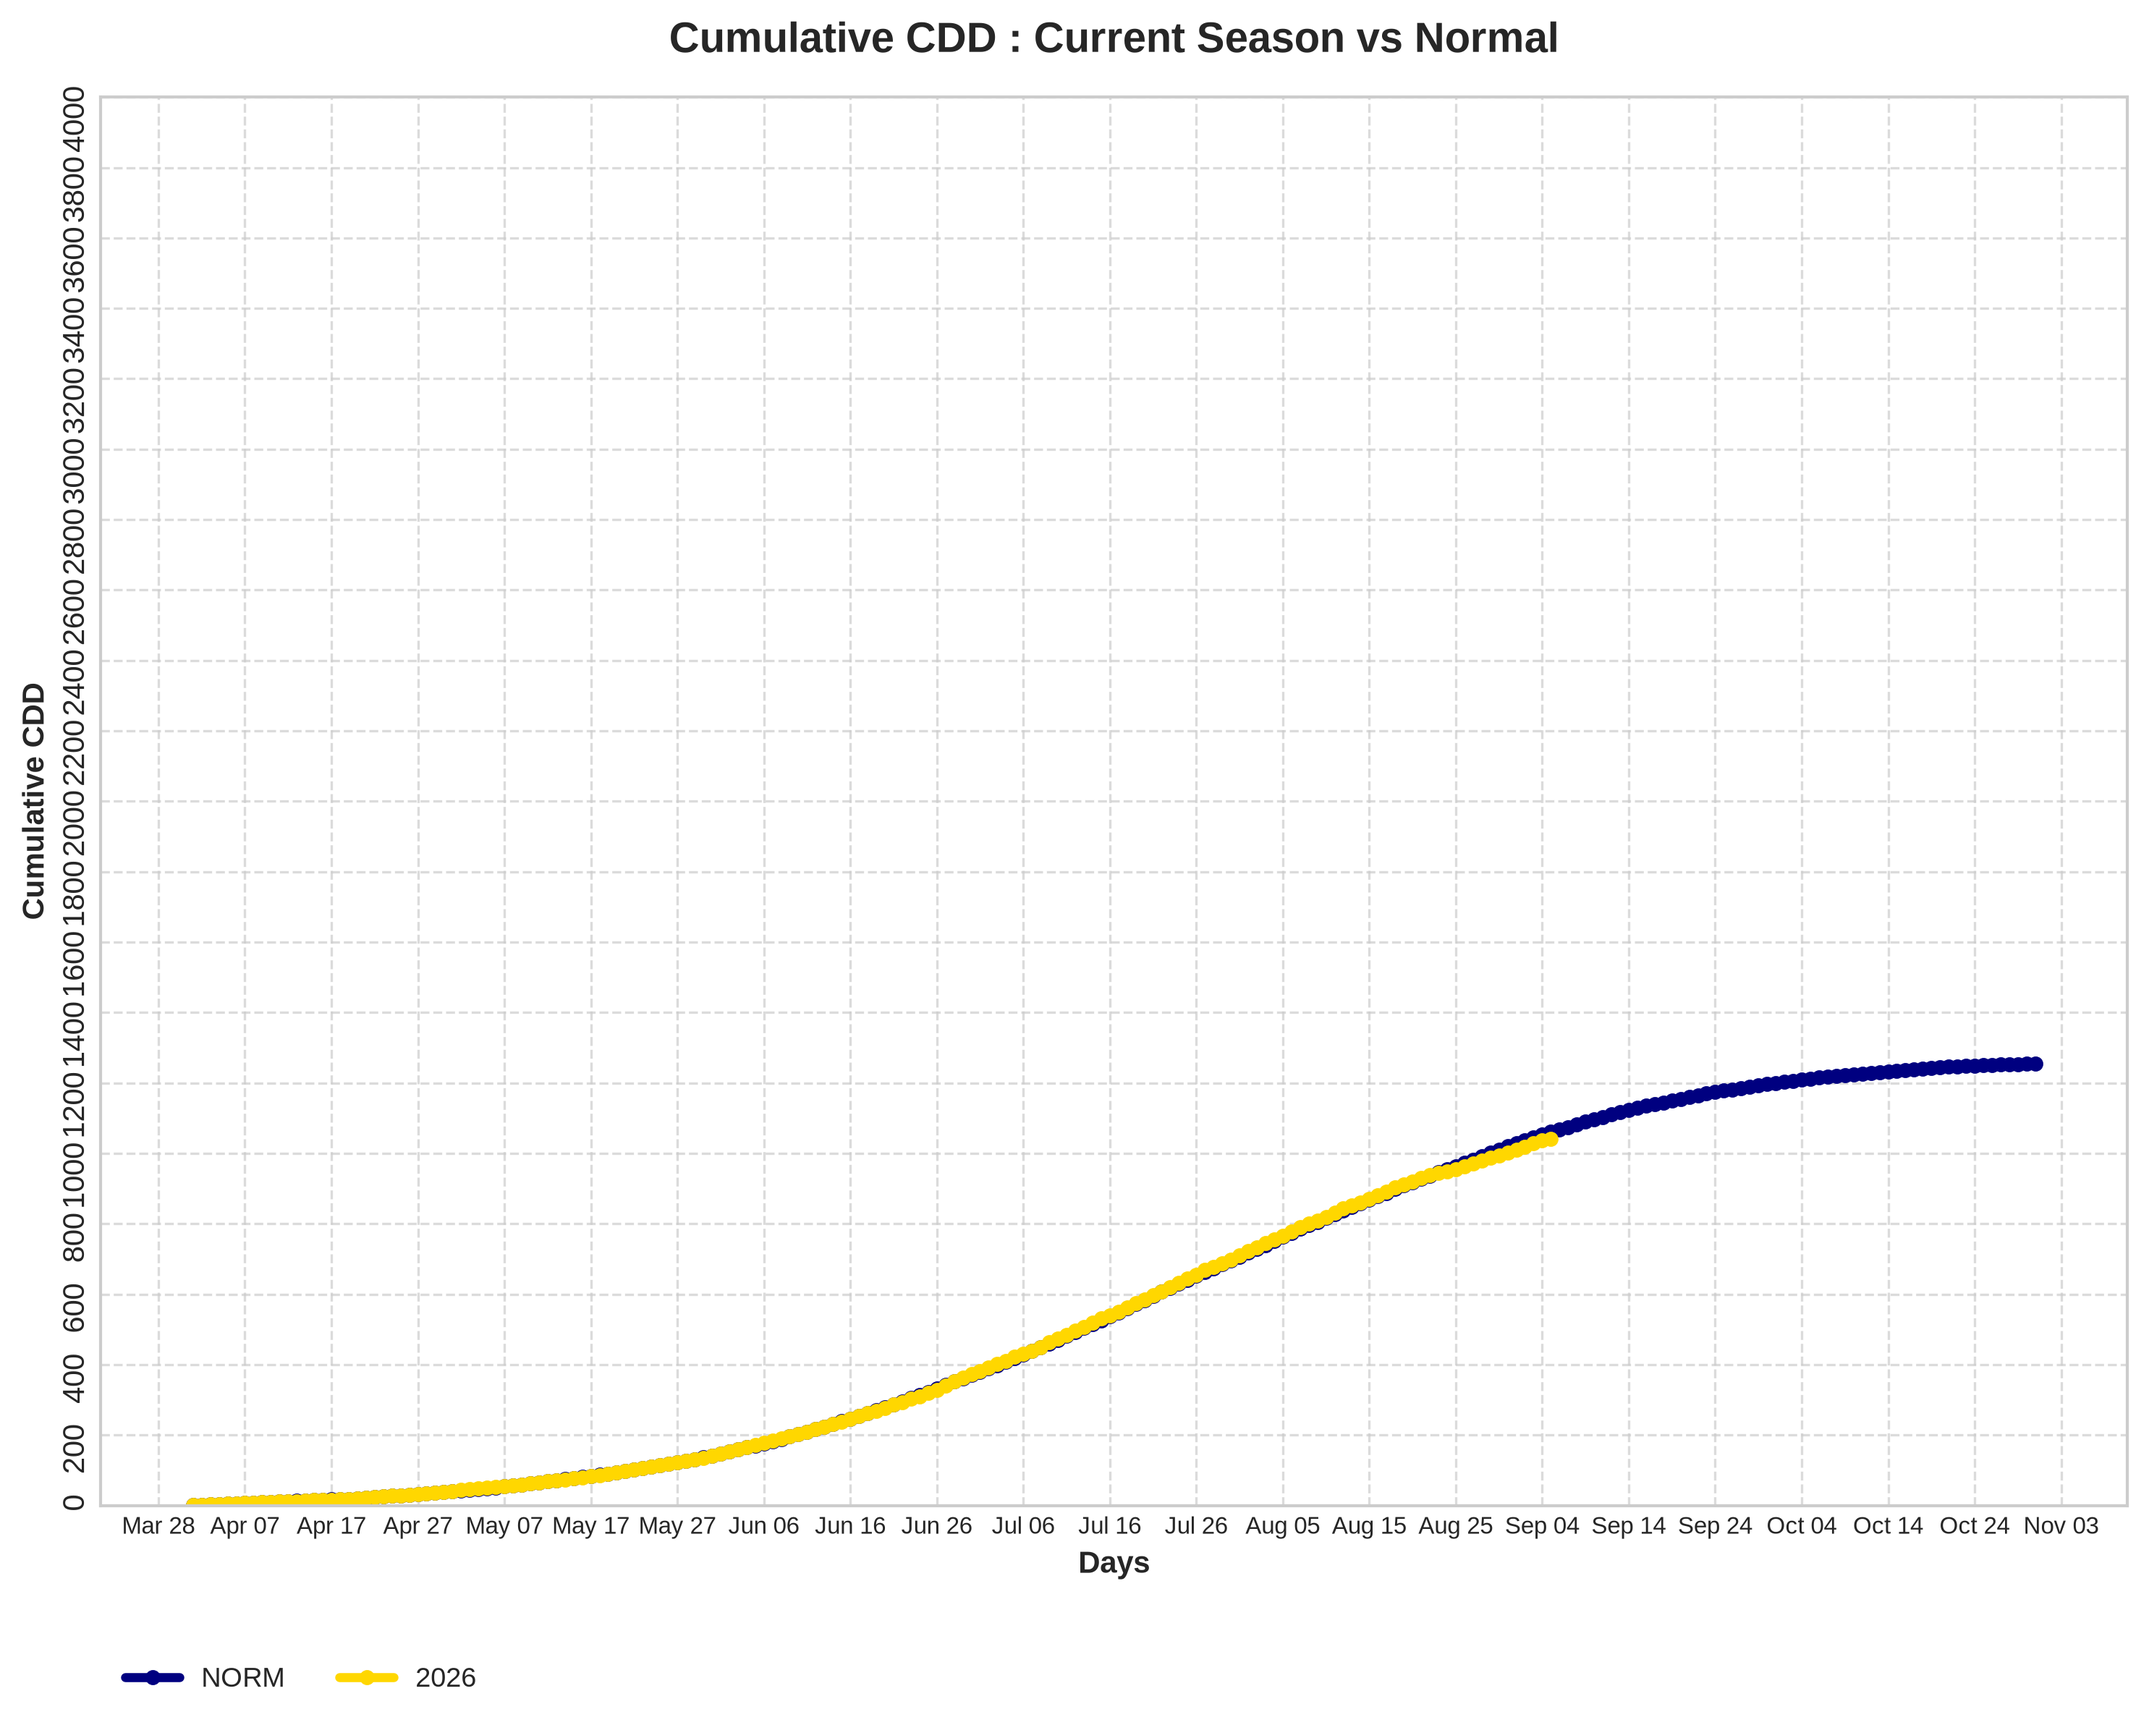
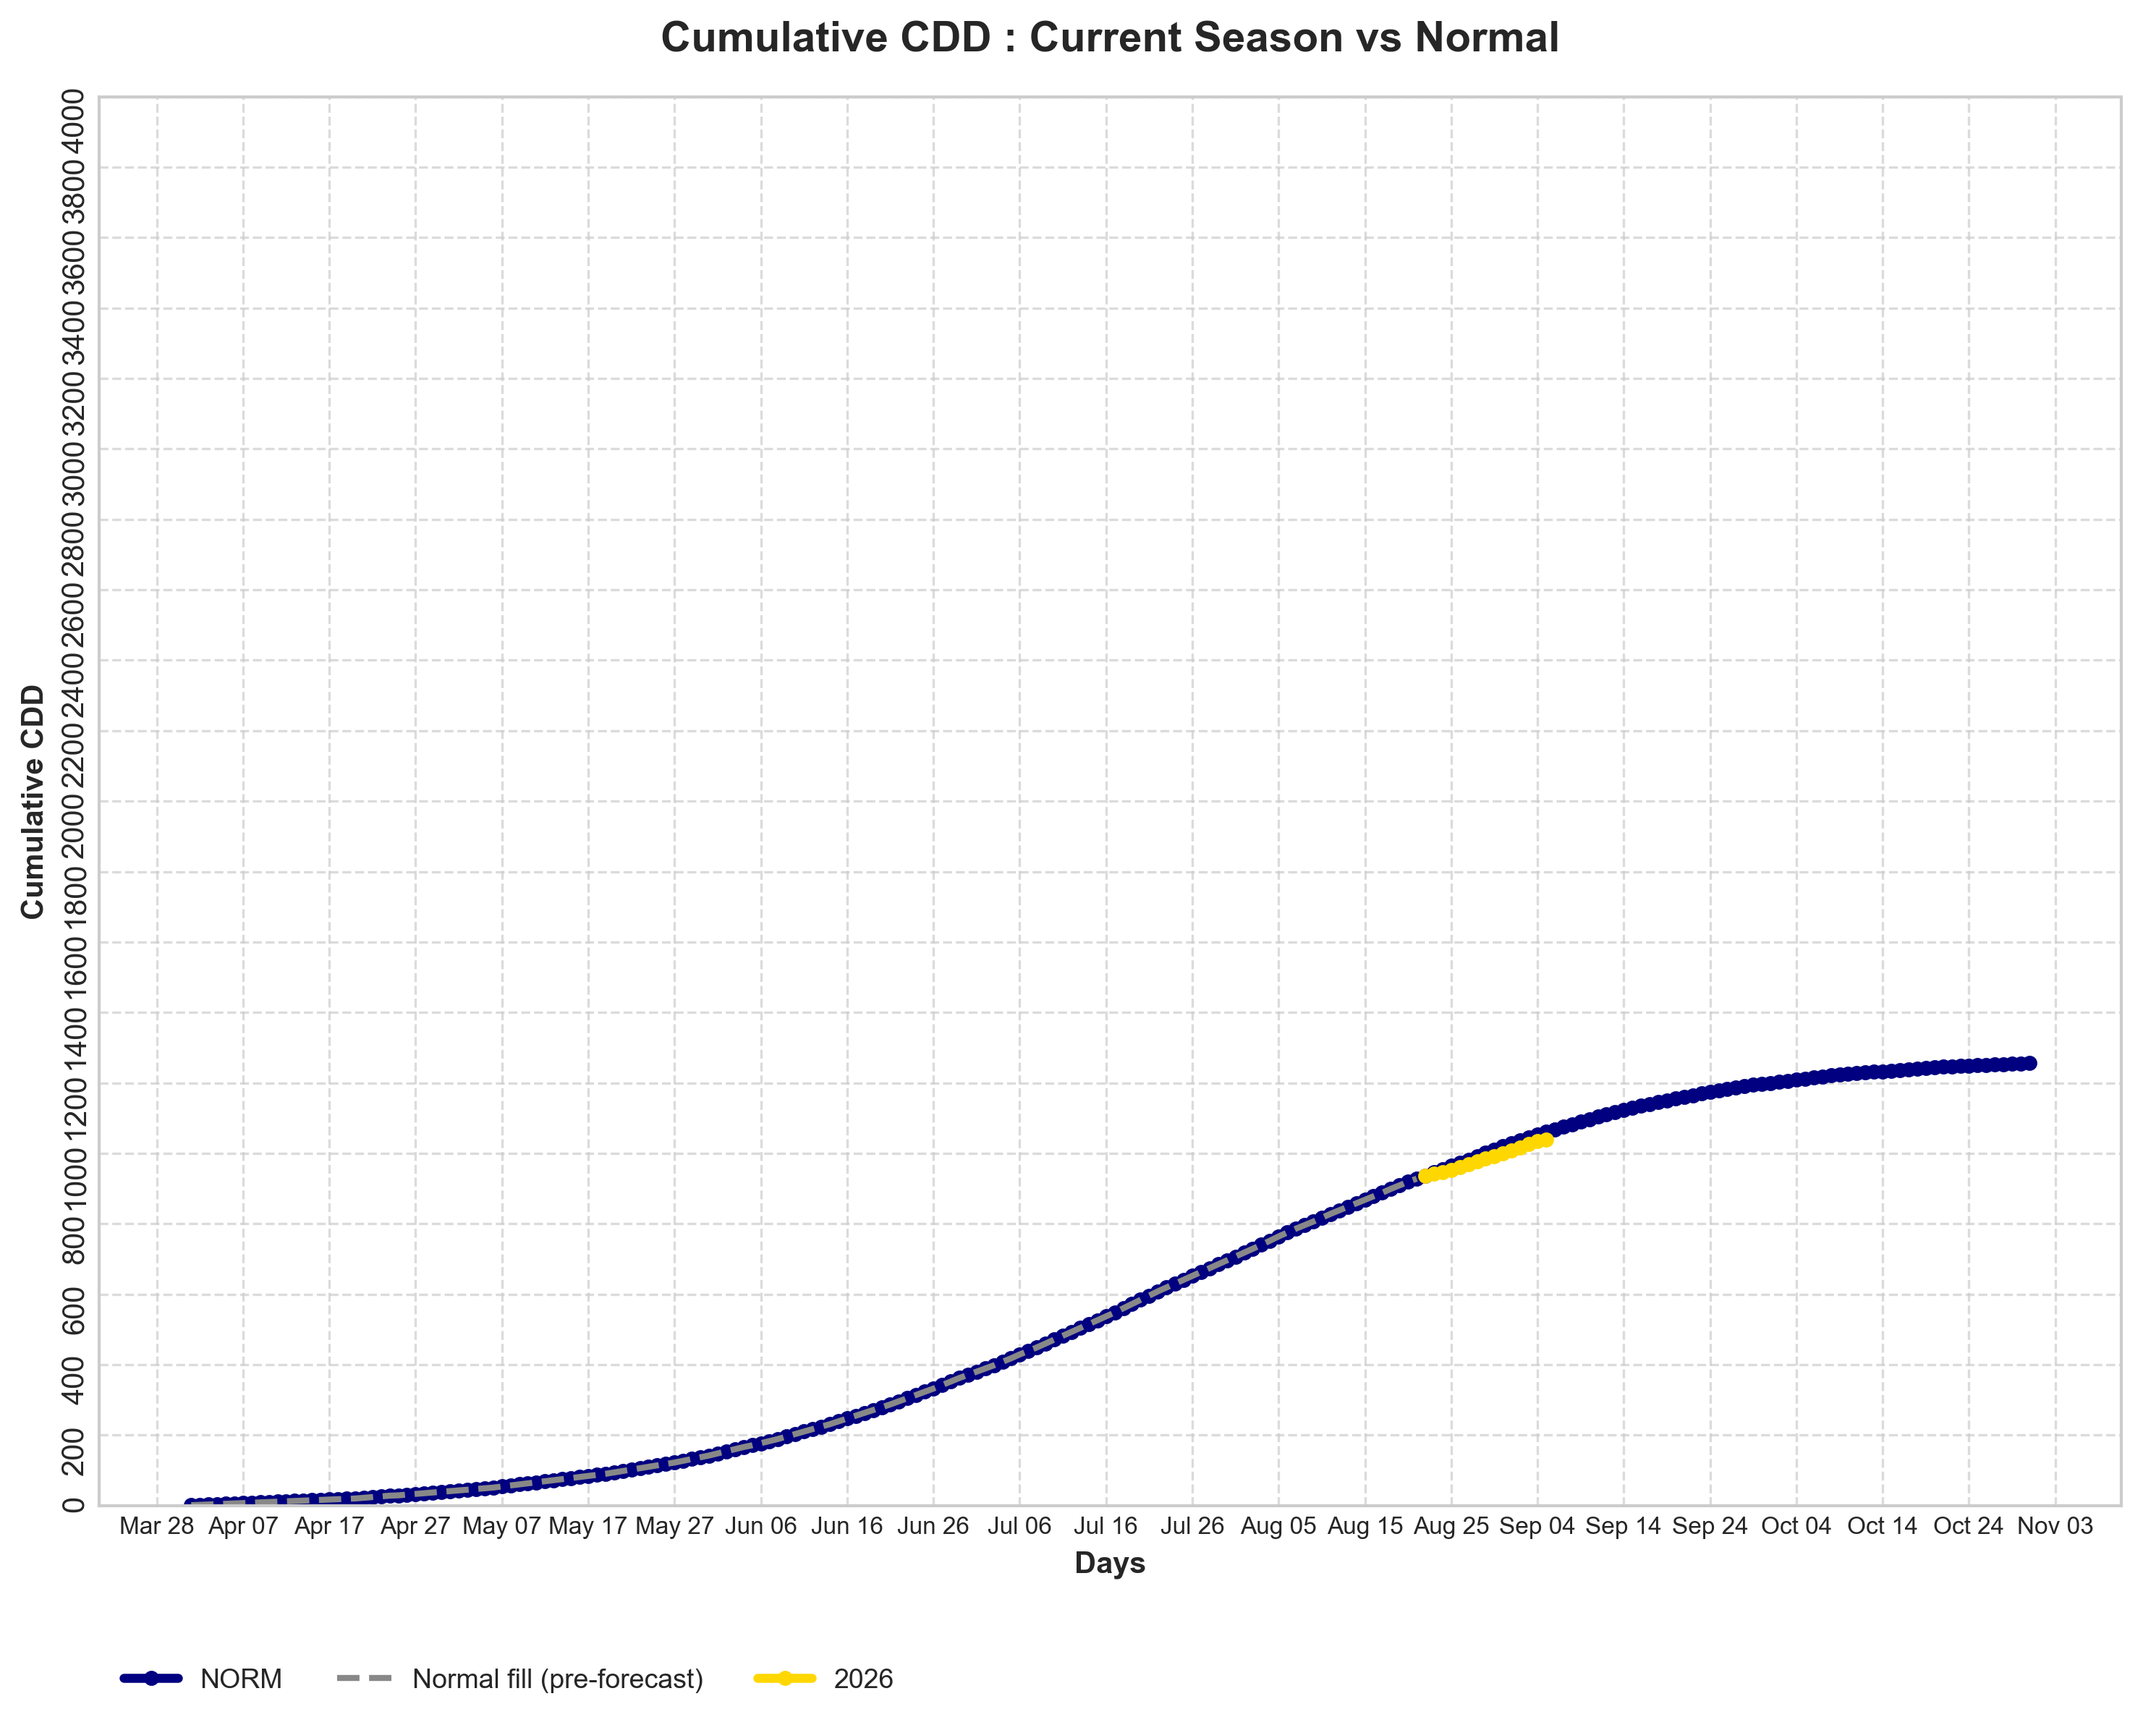
fix: sweep round - vintage gate on disagreement index, honest upserts, no fabricated constants
physics_vs_ai_disagreement: get_latest_file picked TDD CSVs by mtime with
no age check, so a zombie vintage (found live: ECMWF_AIFS run from June,
77 days old) was averaged into the AI consensus against fresh physics
runs - divergence from weather EVOLUTION counted as model disagreement.
Added MAX_RUN_AGE_DAYS=4 gate per source; when one side has no fresh
runs the index is now NaN instead of a fabricated 0.0 'perfect
agreement'.

fetch_thermal_history: comment claimed partial-day captures self-heal,
but the upsert unconditionally let ANY new row overwrite a richer stored
row - a 5-hour capture would permanently clobber a complete day. Now
completeness-aware (sample_hours mergesort, richest wins, ties newest),
matching peaker/live_grid.

fetch_outages: dropped fabricated coal columns (hardcoded 180000 MW
capacity + invented 0.0 outages in every row); schema kept with NaN. The
only consumer reads nuclear availability.

track_cumulative_season: current-season curve was padded from season
start to forecast start with normals x random noise drawn as observed
data (~4.5 months fabricated in an August CDD chart). Pre-forecast fill
is now deterministic normals rendered as a distinct dashed segment;
cross-year HDD label fixed (Feb 2026 said 2026/2027 for the running
2025/26 season).

compute_tdd NBM path: silent substitution of simple box mean into *_gw
columns on weight-lookup failure removed - other processors emit null;
[…]

diff --git a/scripts/track_cumulative_season.py b/scripts/track_cumulative_season.py
@@ -48,8 +48,12 @@ def main():
         season_end_real = f"{heat_start_year + 1}-03-31"
         chart_metric = "HDD"
         y_max = 4000
+        # Label must reflect the ACTUAL running season: in Jan-Mar the
+        # ongoing season started the previous November.
+        season_label = f"{heat_start_year}/{heat_start_year + 1}"
 
-    season_label = f"{today.year}/{today.year+1}" if chart_metric == "HDD" else str(today.year)
+    if chart_metric == "CDD":
+        season_label = str(today.year)
     print(f"\n--- Generating Cumulative {chart_metric} Season Tracker ---")
     
     normals_df = load_normals()
@@ -116,7 +120,9 @@ def main():
             (ecmwf_latest["date"] <= season_end_real)
         ].copy()
 
-        # Fill history gap with normals + noise
+        # Pre-forecast gap: fill with the normal curve but keep it HONEST —
+        # no random noise, and rendered as a distinct dashed segment so it
+        # is never mistaken for observed weather or forecast output.
         history_dates = pd.date_range(
             start=season_start_real,
             end=season_fcst["date"].min() - pd.Timedelta(days=1)
@@ -132,11 +138,13 @@ def main():
                 pd_date = pd.Timestamp(year=yr, month=d.month, day=d.day)
                 val = season_norms.loc[pd_date, metric_key]
             except KeyError:
-                val = 15.0
-            hist_rows.append({"date": d, "hdd_value": val * np.random.uniform(0.8, 1.2)})
+                continue
+            hist_rows.append({"date": d, "hdd_value": val, "kind": "norm_fill"})
 
         hist_df = pd.DataFrame(hist_rows)
-        current_season = pd.concat([hist_df, season_fcst[["date", "hdd_value"]]]).sort_values("date")
+        fcst_part = season_fcst[["date", "hdd_value"]].copy()
+        fcst_part["kind"] = "fcst"
+        current_season = pd.concat([hist_df, fcst_part]).sort_values("date")
 
         def to_pseudo(x):
             if chart_metric == "HDD":
@@ -150,6 +158,8 @@ def main():
         current_season["pseudo_date"] = current_season["date"].apply(to_pseudo)
         current_season = current_season.sort_values("pseudo_date").set_index("pseudo_date")
         current_season["cumulative_dd"] = current_season["hdd_value"].cumsum()
+        fill_part = current_season[current_season["kind"] == "norm_fill"]
+        fcst_only = current_season[current_season["kind"] == "fcst"]
 
         # Chart
         plt.style.use('seaborn-v0_8-whitegrid')
@@ -157,7 +167,10 @@ def main():
 
         ax.plot(season_norms.index, season_norms["cumulative_norm"], color=COLORS["NORM"],
                 linewidth=3, label="NORM", marker="o", markersize=4)
-        ax.plot(current_season.index, current_season["cumulative_dd"], color=COLORS["FCST"],
+        if not fill_part.empty:
+            ax.plot(fill_part.index, fill_part["cumulative_dd"], color="#888888",
+                    linestyle="--", linewidth=2, label="Normal fill (pre-forecast)")
+        ax.plot(fcst_only.index, fcst_only["cumulative_dd"], color=COLORS["FCST"],
                 linewidth=3, label=season_label, marker="o", markersize=4)
 
         ax.set_title(f"Cumulative {chart_metric} : Current Season vs Normal", fontsize=14, fontweight='bold', pad=15)

diff --git a/scripts/market_logic/physics_vs_ai_disagreement.py b/scripts/market_logic/physics_vs_ai_disagreement.py
@@ -45,6 +45,26 @@ def get_latest_file(base_dir, file_suffix="tdd.csv"):
                 
     return latest_file
 
+# Runs older than this are excluded: a zombie vintage diverges from fresh
+# runs because weather EVOLVED, not because models disagree — counting it
+# would fabricate volatility signal.
+MAX_RUN_AGE_DAYS = 4
+
+def _run_is_fresh(df, label):
+    if "run_id" not in df.columns or df.empty:
+        return True
+    rid = str(df["run_id"].max())
+    try:
+        run_date = pd.to_datetime(rid[:8], format="%Y%m%d")
+        now = pd.Timestamp.now().normalize()
+        age = (now - run_date.normalize()).days
+    except Exception:
+        return True
+    if age > MAX_RUN_AGE_DAYS:
+        print(f"[SKIP] {label}: latest run {rid} is {age}d old (> {MAX_RUN_AGE_DAYS}d)")
+        return False
+    return True
+
 def load_data():
     """Loads the absolute latest run from all available models."""
     dfs = []
@@ -55,7 +75,8 @@ def load_data():
         try:
             df = pd.read_csv(ecmwf_cf)
             if "model" not in df.columns: df["model"] = "ECMWF"
-            dfs.append(df)
+            if _run_is_fresh(df, "ECMWF"):
+                dfs.append(df)
         except Exception as e:
             print(f"[WARN] Could not load ECMWF: {e}")
         
@@ -64,7 +85,8 @@ def load_data():
         try:
             df = pd.read_csv(gfs_cf)
             if "model" not in df.columns: df["model"] = "GFS"
-            dfs.append(df)
+            if _run_is_fresh(df, "GFS"):
+                dfs.append(df)
         except Exception as e:
             print(f"[WARN] Could not load GFS: {e}")
 
@@ -74,7 +96,8 @@ def load_data():
         try:
             df = pd.read_csv(aifs_cf)
             df["model"] = "ECMWF_AIFS"
-            dfs.append(df)
+            if _run_is_fresh(df, "ECMWF_AIFS"):
+                dfs.append(df)
         except Exception as e:
             print(f"[WARN] Could not load AIFS: {e}")
 
@@ -142,9 +165,11 @@ def compute_disagreement():
         pivot["volatility_risk_score"] = (pivot["disagreement_abs"] / 5.0) * 100
         pivot["volatility_risk_score"] = pivot["volatility_risk_score"].clip(upper=100).round(1)
     else:
-        pivot["disagreement_hdd"] = 0.0
-        pivot["disagreement_abs"] = 0.0
-        pivot["volatility_risk_score"] = 0.0
+        # No comparable pair -> unknown, NOT zero. Zero would masquerade as
+        # "perfect agreement" and read as low volatility risk downstream.
+        pivot["disagreement_hdd"] = float("nan")
+        pivot["disagreement_abs"] = float("nan")
+        pivot["volatility_risk_score"] = float("nan")
 
     out_file = OUTPUT_DIR / "physics_vs_ai_disagreement.csv"
     pivot.reset_index().to_csv(out_file, index=False)

diff --git a/scripts/market_logic/fetch_thermal_history.py b/scripts/market_logic/fetch_thermal_history.py
@@ -47,8 +47,10 @@ def fetch_thermal_history():
         print("  [ERR] No NATIONAL row found in grid generation file.")
         return
 
-    # Process all available NATIONAL rows (upsert: fresh rows replace stored
-    # rows for the same date so early partial-day captures self-heal)
+    # Process all available NATIONAL rows with completeness-aware upsert:
+    # richer samples win over thinner ones, ties go to the newest capture.
+    # A naive replace would let an early partial-day capture (e.g. 5h of
+    # data) permanently overwrite a complete stored day.
     all_rows = []
     required = ["natural_gas_mw", "coal_mw", "nuclear_mw", "total_thermal_mw", "gas_pct_thermal", "load_mw", "gas_pct_load", "wind_mw"]
 
@@ -57,14 +59,19 @@ def fetch_thermal_history():
         row_dict = {"date": d_str}
         for col in required:
             row_dict[col] = row.get(col)
+        sh = row.get("sample_hours")
+        row_dict["sample_hours"] = int(sh) if pd.notna(sh) else 0
         all_rows.append(row_dict)
 
     new_df = pd.DataFrame(all_rows)
 
     if OUTPUT_FILE.exists():
         existing_df = pd.read_csv(OUTPUT_FILE)
-        existing_df = existing_df[~existing_df['date'].astype(str).isin(new_df['date'].astype(str))]
-        final_df = pd.concat([existing_df, new_df], ignore_index=True).sort_values('date')
+        if "sample_hours" not in existing_df.columns:
+            existing_df["sample_hours"] = 24
+        combined = pd.concat([existing_df, new_df], ignore_index=True).sort_values("sample_hours", kind="mergesort")
+        combined = combined.drop_duplicates(subset=["date"], keep="last")
+        final_df = combined.sort_values("date").reset_index(drop=True)
         safe_write_csv(final_df, OUTPUT_FILE)
         print(f"  [OK] Upserted {len(all_rows)} rows into {OUTPUT_FILE} ({len(final_df)} total)")
     else:

diff --git a/scripts/compute_tdd.py b/scripts/compute_tdd.py
@@ -518,9 +518,11 @@ def process_nbm(run_path, weights, w_lats, w_lons):
                     if w_total > 0:
                         temp_f_gw = float((flat_tmp * w_vals).sum() / w_total)
                 except Exception as gw_e:
-                    print(f"  [WARN] NBM GW lookup failed ({gw_e}), using simple mean")
-            if temp_f_gw is None:
-                temp_f_gw = temp_f_simple
+                    print(f"  [WARN] NBM GW lookup failed ({gw_e}); leaving gw columns null")
+            # No silent substitution: other processors emit null *_gw when
+            # weighting is unavailable; filling with the simple box mean here
+            # would smuggle a different methodology into the same columns
+            # and bias cross-model comparisons.
 
             vt = ds.valid_time.values
             date = pd.Timestamp(vt.ravel()[0] if hasattr(vt, "ravel") else vt).date()

diff --git a/scripts/market_logic/fetch_outages.py b/scripts/market_logic/fetch_outages.py
@@ -109,9 +109,12 @@ def fetch_grid_outages():
         .fillna((100.0 - daily["pct_outage_raw"]).round(1))
     )
 
-    # Preserve coal columns in schema (sourced elsewhere; default to 0 when absent)
-    daily["coal_outage_mw"]  = 0.0
-    daily["coal_capacity_mw"] = 180000.0
+    # Coal columns kept for schema compatibility but NOT fabricated:
+    # coal data is not sourced here, and hardcoded capacity/zeros read as
+    # measurements downstream. Only the sole real consumer
+    # (grid.html nuclear availability) reads this file today.
+    daily["coal_outage_mw"]  = float("nan")
+    daily["coal_capacity_mw"] = float("nan")
     daily["total_outage_mw"] = daily["nuclear_outage_mw"]
 
     out_df = daily[[
